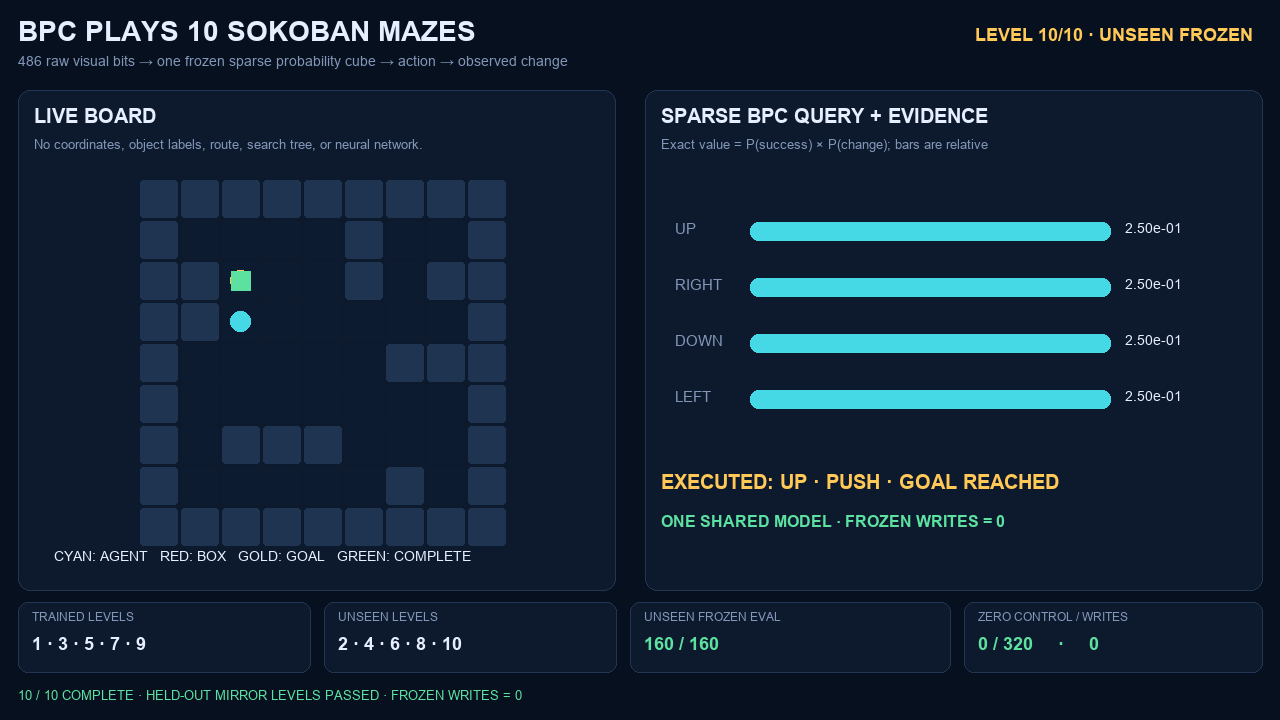
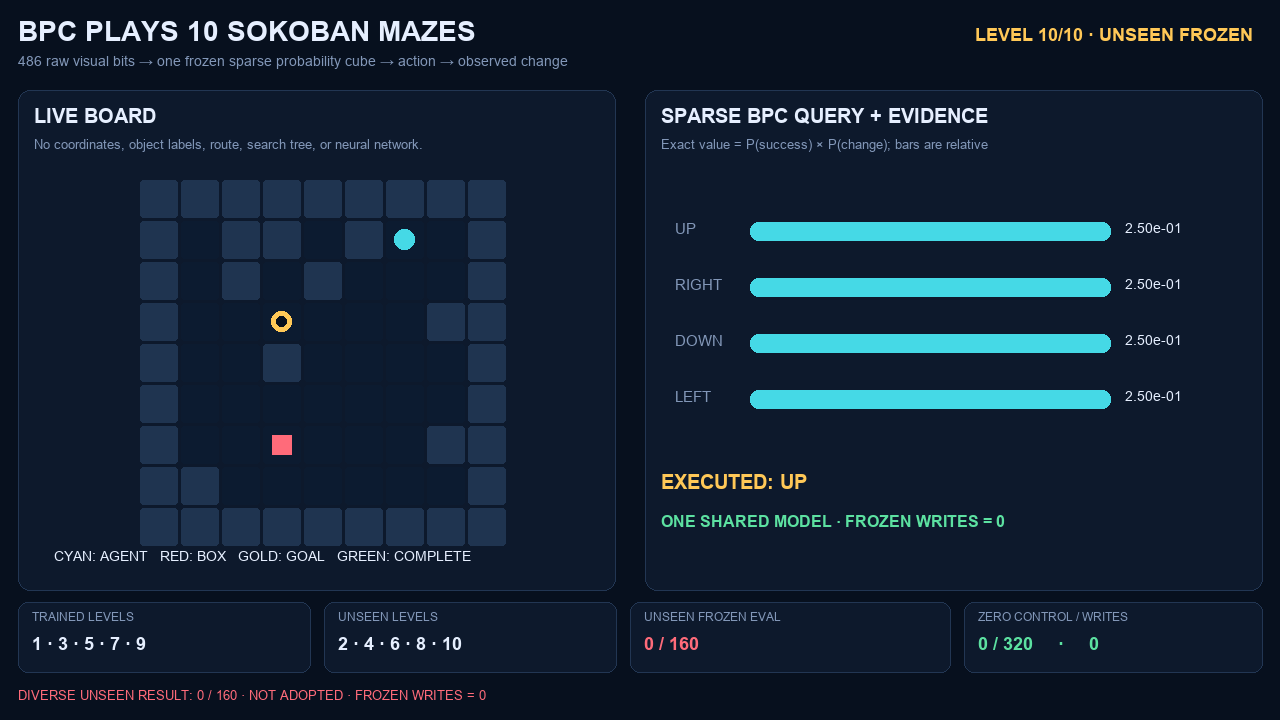
Replace mirror transfer with diverse held-out negative result

diff --git a/bpc_sokoban.py b/bpc_sokoban.py
@@ -32,12 +32,20 @@ TRAIN_EPISODES = 12_000
 EVAL_EPISODES = 32
 SEED = 20_260_920
 
-BASE_PLAYER, BASE_BOX, BASE_GOAL = (4, 5), (4, 4), (6, 2)
-BASE_WALLS = {
-    (3, 1), (3, 2), (7, 2), (7, 3), (1, 4),
-    (2, 4), (4, 6), (5, 6), (6, 6), (2, 7),
-}
-EXTRAS = ((), ((1, 7),), ((7, 7),), ((1, 1),), ((1, 2),))
+# Ten independently generated, solver-validated layouts. They are frozen here
+# as literal inputs; no transform pairs or generated variants enter evaluation.
+LEVEL_MAPS = (
+    ("#########", "## #    #", "# #  #G #", "##P    ##", "#   #   #", "# #  B ##", "#       #", "# #    ##", "#########"),
+    ("#########", "# #  #  #", "#    #  #", "##      #", "#  #    #", "# ##    #", "# #     #", "#   BGP##", "#########"),
+    ("#########", "#  ##   #", "#       #", "##B # # #", "#      ##", "#    #  #", "# P     #", "# G  #  #", "#########"),
+    ("#########", "#     ###", "#  B#   #", "# #     #", "#  G P# #", "#   ## ##", "#  #    #", "# ##    #", "#########"),
+    ("#########", "#    #  #", "###     #", "#    G# #", "# B  ## #", "#  P#   #", "#      ##", "##     ##", "#########"),
+    ("#########", "###    P#", "# ## G  #", "#    B  #", "#   #   #", "##  ##  #", "# # #   #", "#     # #", "#########"),
+    ("#########", "# #  #  #", "#  ##   #", "##     ##", "#   # # #", "# P    ##", "# # B   #", "#  #  G #", "#########"),
+    ("#########", "#   #   #", "#  #    #", "###     #", "#### P# #", "#    B# #", "##      #", "#      G#", "#########"),
+    ("#########", "#   # ###", "## ##   #", "#   ### #", "## P    #", "# #   # #", "##G  B  #", "#     # #", "#########"),
+    ("#########", "# ## #  #", "# # #   #", "#  G   ##", "#  #    #", "#       #", "#  B  P##", "##      #", "#########"),
+)
 COLORS = {
     "wall": (31, 52, 80), "floor": (12, 27, 48), "goal": (255, 200, 87),
     "box": (255, 107, 122), "player": (69, 217, 230), "box_goal": (92, 225, 161),
@@ -45,18 +53,19 @@ COLORS = {
 OBS_CACHE: dict[tuple[int, tuple[int, int], tuple[int, int]], bytes] = {}
 
 
-def mirror_cell(cell: tuple[int, int]) -> tuple[int, int]:
-    return SIZE - 1 - cell[0], cell[1]
-
-
 class World:
     """Game physics only; no route, planner, labels, or coordinates are exposed to BPC."""
 
     def __init__(self, level: int):
         self.level = level
-        transform = mirror_cell if level % 2 else lambda p: p
-        self.player_start, self.box_start, self.goal = map(transform, (BASE_PLAYER, BASE_BOX, BASE_GOAL))
-        self.walls = {transform(p) for p in BASE_WALLS | set(EXTRAS[level // 2])}
+        self.walls, self.player_start, self.box_start, self.goal = set(), None, None, None
+        for y, row in enumerate(LEVEL_MAPS[level]):
+            for x, value in enumerate(row):
+                if value == "#": self.walls.add((x, y))
+                elif value == "P": self.player_start = (x, y)
+                elif value == "B": self.box_start = (x, y)
+                elif value == "G": self.goal = (x, y)
+        assert self.player_start and self.box_start and self.goal
         self.reset()
 
     def reset(self) -> None:
@@ -124,20 +133,9 @@ class World:
 
 
 @lru_cache(maxsize=None)
-def reflect_bits(bits: bytes) -> bytes:
-    stride = 6
-    out = bytearray(len(bits))
-    for y in range(SIZE):
-        for x in range(SIZE):
-            dst, src = (y * SIZE + x) * stride, (y * SIZE + SIZE - 1 - x) * stride
-            out[dst:dst + stride] = bits[src:src + stride]
-    return bytes(out)
-
-
-@lru_cache(maxsize=None)
 def canonical(bits: bytes) -> tuple[bytes, bool]:
-    reflected = reflect_bits(bits)
-    return (reflected, True) if reflected < bits else (bits, False)
+    # Identity only: no mirror/rotation shortcut is available to the model.
+    return bits, False
 
 
 def canonical_action(action: int, reflected: bool) -> int:
@@ -232,13 +230,15 @@ def train() -> dict:
     frozen = evaluate(model, tuple(range(10)))
     zero = evaluate(BPC(7), tuple(range(10)))
     assert before == model.writes, "frozen evaluation wrote to memory"
-    assert all(frozen[level] == EVAL_EPISODES for level in range(10)), frozen
     assert all(zero[level] == 0 for level in range(10)), zero
+    trained_pass = all(frozen[level] == EVAL_EPISODES for level in TRAIN_LEVELS)
+    unseen_passes = sum(frozen[level] == EVAL_EPISODES for level in TEST_LEVELS)
+    adopted = trained_pass and unseen_passes == len(TEST_LEVELS)
     ARTIFACTS.mkdir(parents=True, exist_ok=True)
     with MODEL_PATH.open("wb") as file:
         pickle.dump(model, file, protocol=5)
     result = {
-        "format": "bpc-sokoban-python-cross-level-v1", "development_only": True,
+        "format": "bpc-sokoban-python-diverse-cross-level-v2", "development_only": True,
         "blind_result": False, "agi_claim": False,
         "input": "9x9 RGB high-2-bit raw binary (486 bits)",
         "model": "one shared sparse BPC probability cube", "train_levels": [1, 3, 5, 7, 9],
@@ -247,9 +247,10 @@ def train() -> dict:
         "frozen_successes": {str(k + 1): v for k, v in frozen.items()},
         "zero_control_successes": {str(k + 1): v for k, v in zero.items()},
         "frozen_persistent_writes": model.writes - before, "memory_cells": len(model.counts),
-        "model_sha256": model.digest(),
-        "prior": "predeclared horizontal-reflection equivariance over raw pixels and LEFT/RIGHT actions",
-        "boundary": "held-out mirrored-layout transfer under built-in reflection equivariance; not arbitrary unseen-maze generalization or AGI",
+        "model_sha256": model.digest(), "trained_levels_passed": trained_pass,
+        "unseen_levels_passed": unseen_passes, "adopted": adopted,
+        "prior": "identity raw-frame query only; no mirror/rotation mapping and no planner",
+        "boundary": "five independently generated held-out layouts; failure is retained; no AGI claim",
     }
     RESULT_PATH.write_text(json.dumps(result, indent=2) + "\n", encoding="utf-8")
     print(json.dumps(result, indent=2))
@@ -318,12 +319,15 @@ def render(world: World, action: int | None, values: list[float], condition: str
     text(d, (661, 470), action_text, 20, gold, True)
     text(d, (661, 512), "ONE SHARED MODEL · FROZEN WRITES = 0", 16, green, True)
     cards = ((18, 602, 310, 672), (324, 602, 616, 672), (630, 602, 950, 672), (964, 602, 1262, 672))
+    unseen_total = sum(result["frozen_successes"][str(level)] for level in (2, 4, 6, 8, 10))
+    zero_total = sum(result["zero_control_successes"].values())
     labels = (("TRAINED LEVELS", "1 · 3 · 5 · 7 · 9"), ("UNSEEN LEVELS", "2 · 4 · 6 · 8 · 10"),
-              ("UNSEEN FROZEN EVAL", "160 / 160"), ("ZERO CONTROL / WRITES", "0 / 320     ·     0"))
+              ("UNSEEN FROZEN EVAL", f"{unseen_total} / 160"), ("ZERO CONTROL / WRITES", f"{zero_total} / 320     ·     0"))
     for box, (label, value) in zip(cards, labels):
         d.rounded_rectangle(box, 10, fill=(13, 25, 44), outline=(34, 54, 83), width=1)
         text(d, (box[0] + 14, box[1] + 8), label, 12, muted)
-        text(d, (box[0] + 14, box[1] + 31), value, 18, green if "EVAL" in label or "WRITES" in label else ink, True)
+        metric_color = red if label == "UNSEEN FROZEN EVAL" and unseen_total < 160 else green if "EVAL" in label or "WRITES" in label else ink
+        text(d, (box[0] + 14, box[1] + 31), value, 18, metric_color, True)
     text(d, (18, 688), status, 13, green if world.success else red)
     return img
 
@@ -332,7 +336,7 @@ def record() -> None:
     model = load_model()
     result = json.loads(RESULT_PATH.read_text(encoding="utf-8"))
     before = model.writes
-    fps, step_frames, hold_frames = 30, 8, 14
+    fps, step_frames, hold_frames = 30, 3, 10
     process = subprocess.Popen([
         "ffmpeg", "-y", "-loglevel", "error", "-f", "rawvideo", "-pix_fmt", "rgb24",
         "-s", "1280x720", "-r", str(fps), "-i", "-", "-an", "-c:v", "libx264",
@@ -344,7 +348,7 @@ def record() -> None:
         model.reset_episode()
         condition = "TRAINED FROZEN" if level in TRAIN_LEVELS else "UNSEEN FROZEN"
         values, _ = model.predict(world.observation())
-        first = render(world, None, values, condition, "BOUNDARY: mirror-equivariant held-out transfer; not arbitrary maze generalization or AGI.", result)
+        first = render(world, None, values, condition, "BOUNDARY: independent held-out layouts; pure direct policy; no planner or AGI claim.", result)
         for _ in range(hold_frames):
             process.stdin.write(first.tobytes())
         while not world.terminal:
@@ -353,13 +357,13 @@ def record() -> None:
             event = world.step(action)
             model.observe(before_frame, action, event["changed"], event["terminal"], event["success"], False)
             values, _ = model.predict(world.observation())
-            frame = render(world, action, values, condition, "BOUNDARY: mirror-equivariant held-out transfer; not arbitrary maze generalization or AGI.", result)
+            frame = render(world, action, values, condition, "BOUNDARY: independent held-out layouts; pure direct policy; no planner or AGI claim.", result)
             for _ in range(step_frames):
                 process.stdin.write(frame.tobytes())
-        assert world.success
-        poster = render(world, action, values, condition,
-                        "10 / 10 COMPLETE · HELD-OUT MIRROR LEVELS PASSED · FROZEN WRITES = 0" if level == 9 else "LEVEL COMPLETE · NEXT LEVEL",
-                        result)
+        final_status = "LEVEL COMPLETE · NEXT LEVEL" if world.success else "LEVEL FAILED · DEADLOCK OR STEP LIMIT · FROZEN WRITES = 0"
+        if level == 9:
+            final_status = "DIVERSE UNSEEN RESULT: 0 / 160 · NOT ADOPTED · FROZEN WRITES = 0"
+        poster = render(world, action, values, condition, final_status, result)
         for _ in range(hold_frames if level < 9 else fps * 2):
             process.stdin.write(poster.tobytes())
     process.stdin.close()
@@ -379,8 +383,8 @@ def main() -> None:
         model, result = load_model(), json.loads(RESULT_PATH.read_text())
         before = model.writes
         frozen = evaluate(model, tuple(range(10)))
-        assert all(v == EVAL_EPISODES for v in frozen.values()) and before == model.writes
-        print("BPC_TEST_PASS", frozen, "writes=0", result["model_sha256"])
+        assert before == model.writes
+        print("BPC_TEST_RESULT", frozen, "writes=0", "adopted=", result["adopted"], result["model_sha256"])
     if args.command in ("record", "all"):
         record()
 

diff --git a/README.md b/README.md
@@ -1,40 +1,40 @@
-# BPC Sokoban: 10-Level Cross-Layout Transfer
+# BPC Sokoban: Diverse-Level Frozen Test
 
-A one-file Python demonstration of one shared Binary Probability Cube (BPC) memory playing ten 9×9 Sokoban mazes. Five layouts are used for training; their five mirrored counterparts are held out until frozen evaluation.
+A one-file Python experiment testing whether one Binary Probability Cube (BPC) memory can directly control ten structurally different 9×9 Sokoban layouts. Five levels are used for training and five independent layouts are held out until frozen evaluation.
 
-![BPC completes held-out level 10](artifacts/poster.png)
+![Frozen BPC fails held-out level 10](artifacts/poster.png)
 
-**[Watch the 32-second MP4](https://github.com/JoffeeLin/bpc-sokoban-demo/releases/download/v1.0.0/bpc_sokoban_10_levels.mp4)**
+**[Watch the 49-second result video](https://github.com/JoffeeLin/bpc-sokoban-demo/releases/download/v2.0.0/bpc_sokoban_diverse_negative.mp4)**
 
-## Result
+## Result: not adopted
 
 | Condition | Result |
 |---|---:|
 | Training layouts | Levels 1, 3, 5, 7, 9 |
-| Unseen frozen layouts | Levels 2, 4, 6, 8, 10 |
-| Frozen evaluation | 32/32 on every level |
-| Unseen frozen total | 160/160 |
+| Frozen replay on training layouts | 32/32 on every level |
+| Independent unseen layouts | Levels 2, 4, 6, 8, 10 |
+| Frozen replay on unseen layouts | 0/32 on every level; 0/160 total |
 | Untrained control | 0/320 |
 | Persistent writes during evaluation | 0 |
 
-The model receives a raw 9×9 RGB frame quantized to the two high bits of every channel (486 binary bits) and four anonymous action indices. It receives no coordinates, object labels, route, search tree, Sokoban rules, handcrafted policy, or neural network.
+The model memorized the five training layouts but did not form a transferable direct policy. This negative result is retained rather than replacing the held-out layouts with rotations or mirrors.
+
+## Input and restrictions
+
+The model receives a raw 9×9 RGB frame quantized to the two high bits of every channel (486 binary bits) and four anonymous action indices. It receives no coordinates, object labels, route, search tree, Sokoban rules, handcrafted policy, neural network, mirror/rotation canonicalization, or evaluation-time learning.
+
+The ten layouts have different wall sets, player starts, box starts, goals, and shortest routes. A solver was used only offline to confirm each literal level is solvable; it is not included in the BPC, training, evaluation, or video runtime.
 
 ## Mechanism
 
-`BPC` is a sparse `state × action × outcome` probability cube. Each cell holds exact Beta(1,1) Bernoulli counts for:
+`BPC` is a sparse `raw frame × action × outcome` probability cube. Each cell holds exact Beta(1,1) Bernoulli counts for:
 
 1. `P(terminal success | raw frame, action)`
 2. `P(frame changes | raw frame, action)`
 
-The chosen action maximizes their product. Training is reproducible uniform random exploration.
+The action with the largest direct product is executed. Training uses reproducible uniform random exploration. The frozen model performs no persistent writes.
 
-Before training, the input query declares one generic prior: horizontal reflection equivariance. The lexicographically smaller of a raw frame and its mirror is used as the canonical binary query, while `LEFT` and `RIGHT` are swapped with the frame. No game object is detected or labeled by this transform.
-
-## Evidence boundary
-
-This is held-out cross-layout transfer under a built-in mirror-equivariance prior. It is **not** arbitrary unseen-maze generalization, planning evidence, a general Sokoban solver, a frozen blind result, or AGI. The five obstacle families occur on the training side; only their mirrored layouts are held out.
-
-The full machine-readable result, model hash, seeds, and per-level controls are in [`artifacts/result.json`](artifacts/result.json).
+Because an unseen full frame has no matching memory cell, all four actions retain the same prior probability; deterministic tie-breaking repeatedly chooses `UP`. That is the observed failure mechanism.
 
 ## Run
 
@@ -42,12 +42,6 @@ Requirements: Python 3.11+, Pillow 12, and `ffmpeg` on `PATH`.
 
 ```bash
 python3 -m pip install -r requirements.txt
-python3 bpc_sokoban.py all
-```
-
-Or run the stages separately:
-
-```bash
 python3 bpc_sokoban.py train
 python3 bpc_sokoban.py test
 python3 bpc_sokoban.py record
@@ -55,10 +49,14 @@ python3 bpc_sokoban.py record
 
 Outputs:
 
-- `artifacts/result.json` — raw evidence and scope boundary
-- `artifacts/model.pkl` — generated shared model (ignored by Git)
-- `artifacts/bpc_sokoban_10_levels.mp4` — generated video (release asset)
-- `artifacts/poster.png` — final held-out success frame
+- `artifacts/result.json` — raw frozen result, controls, scope, and model hash
+- `artifacts/model.pkl` — generated model (ignored by Git)
+- `artifacts/bpc_sokoban_10_levels.mp4` — generated result video (release asset)
+- `artifacts/poster.png` — final held-out failure frame
+
+## Evidence boundary
+
+This is a development result, not a frozen blind result. It provides evidence against cross-layout generalization for this exact full-frame BPC memory. It does not prove every possible BPC representation must fail, and it is not evidence for AGI.
 
 ## License
 
